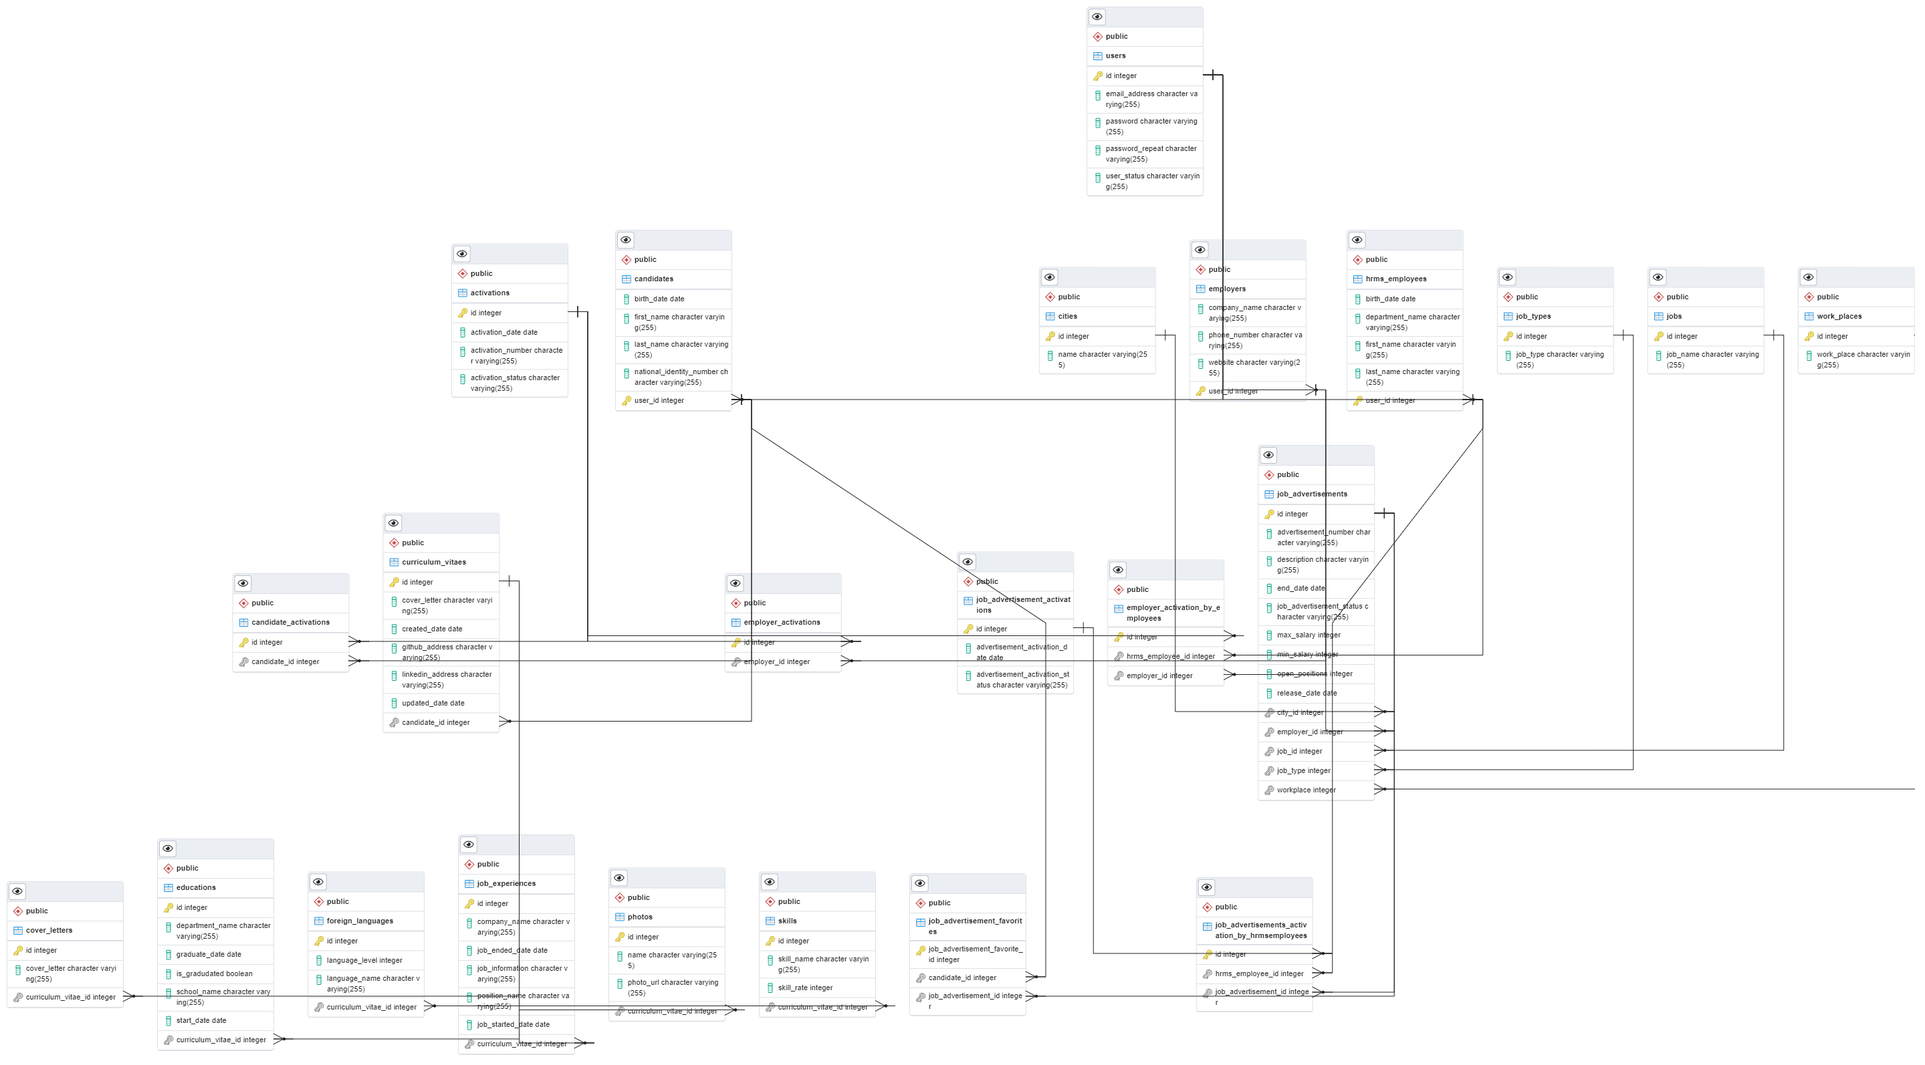
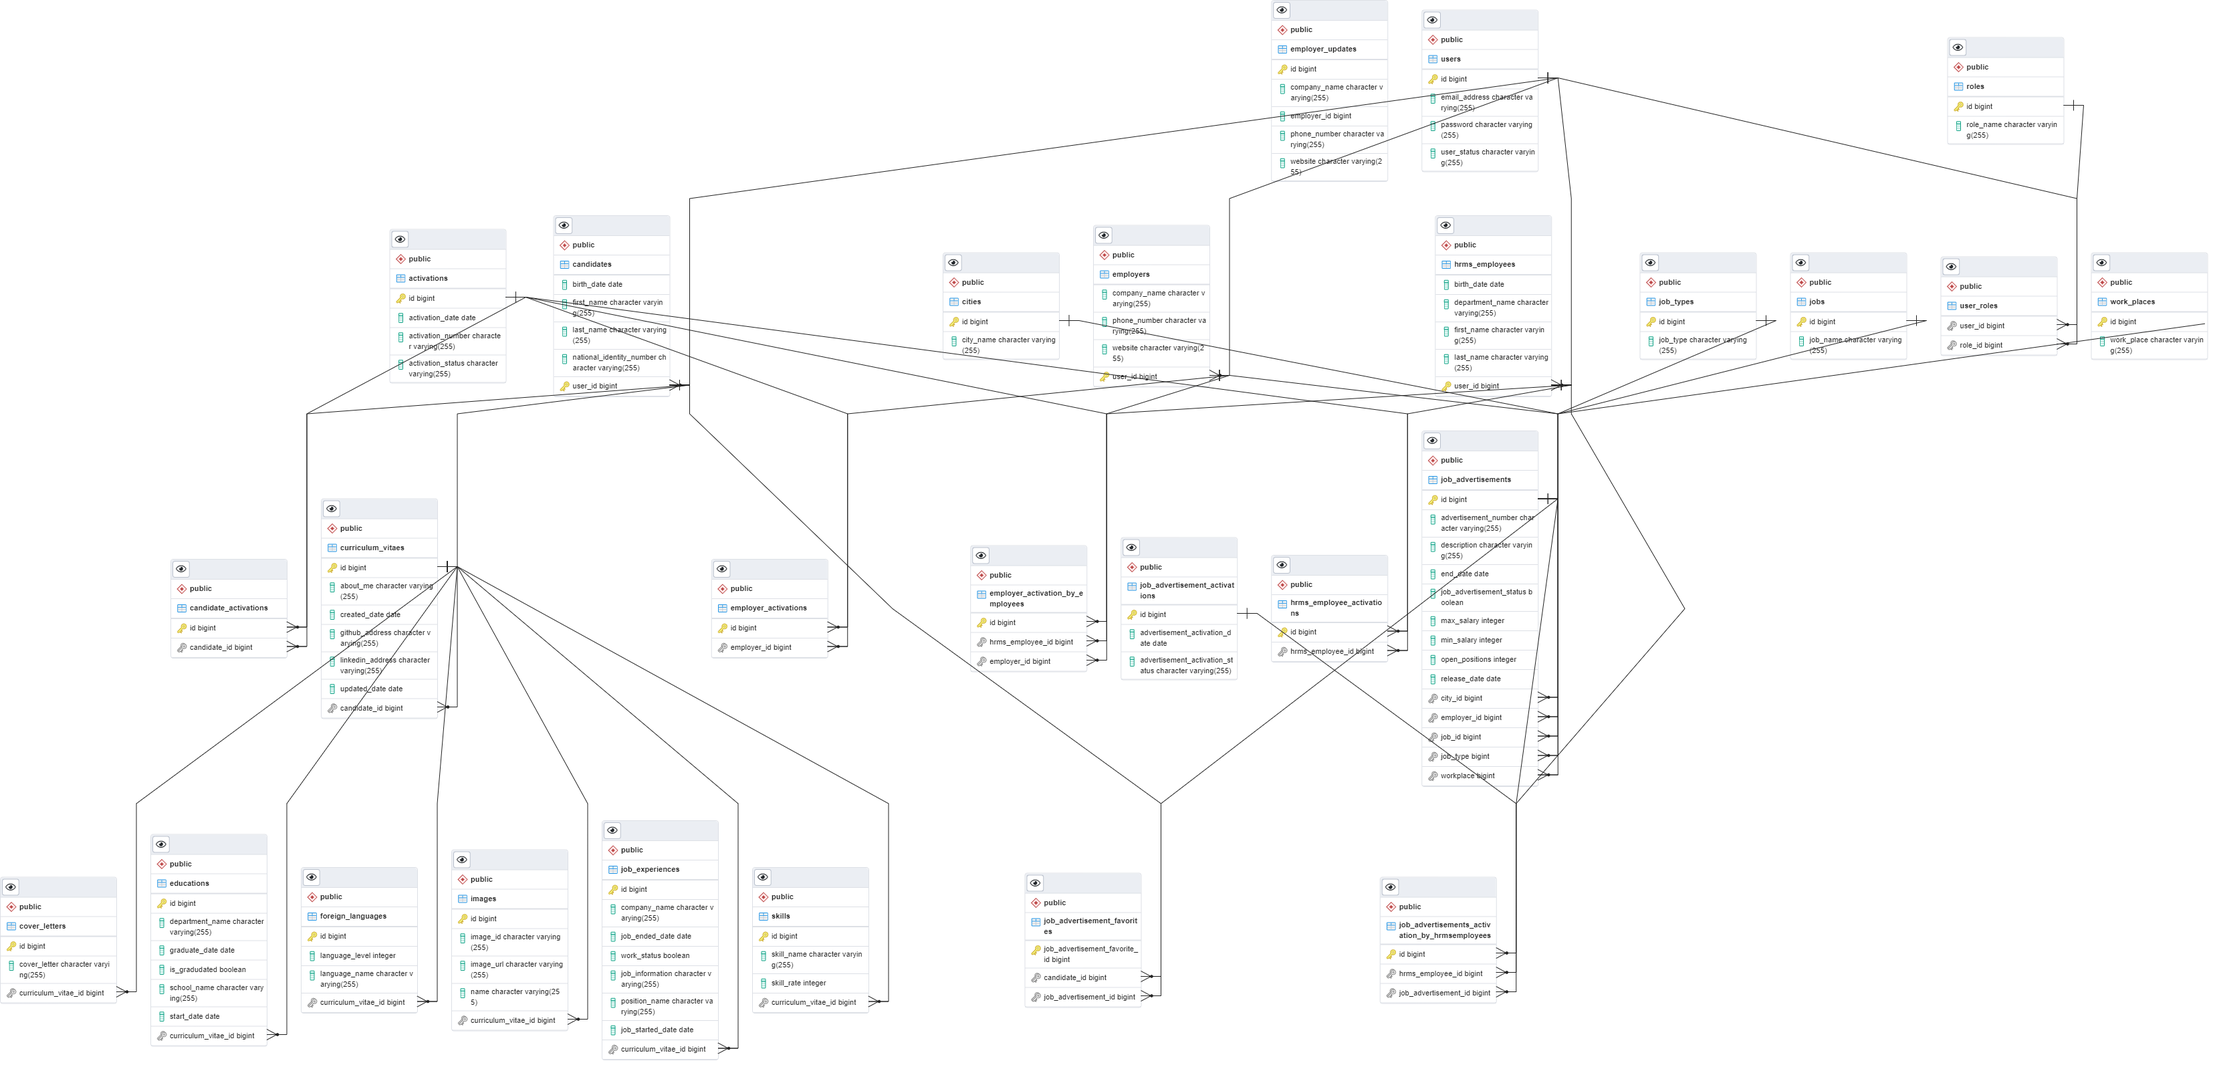
22.10.2021
-HrmsEmployee için aktivasyon tablosu eklendi.
-Bcrypt uyuşmazlık problemi giderildi.
-Veri tabanı ilişikileri güncellendi.
-Login yapıldığında verilen token test edildi.
-Rol bazlı authentication sistemi hazırlandı ancak aktive edilmedi.

diff --git a/HumanResourceManagementSystem/src/main/java/kodlamaio/HumanResourceManagementSystem/business/concretes/HrmsEmployeeManager.java b/HumanResourceManagementSystem/src/main/java/kodlamaio/HumanResourceManagementSystem/business/concretes/HrmsEmployeeManager.java
@@ -3,17 +3,22 @@ package kodlamaio.HumanResourceManagementSystem.business.concretes;
 import kodlamaio.HumanResourceManagementSystem.business.abstracts.HrmsEmployeeService;
 import kodlamaio.HumanResourceManagementSystem.business.abstracts.RoleService;
 import kodlamaio.HumanResourceManagementSystem.business.abstracts.UserService;
+import kodlamaio.HumanResourceManagementSystem.core.enums.activationEnums.UserActivationStatus;
 import kodlamaio.HumanResourceManagementSystem.core.enums.userEnums.UserStatus;
 import kodlamaio.HumanResourceManagementSystem.core.utils.TextEditOperation;
+import kodlamaio.HumanResourceManagementSystem.core.utils.activationUtils.ActivationNumberGenerator;
 import kodlamaio.HumanResourceManagementSystem.core.utils.results.*;
 import kodlamaio.HumanResourceManagementSystem.core.utils.validations.abstracts.RuleValidationService;
 import kodlamaio.HumanResourceManagementSystem.core.utils.validations.abstracts.UserValidationService;
 import kodlamaio.HumanResourceManagementSystem.dataAccess.abstracts.HrmsEmployeeDao;
 import kodlamaio.HumanResourceManagementSystem.entities.concretes.HrmsEmployee;
+import kodlamaio.HumanResourceManagementSystem.entities.concretes.HrmsEmployeeActivation;
 import kodlamaio.HumanResourceManagementSystem.entities.dtos.HrmsEmployeeDto;
 import org.springframework.beans.factory.annotation.Autowired;
+import org.springframework.security.crypto.password.PasswordEncoder;
 import org.springframework.stereotype.Service;
 
+import java.time.LocalDate;
 import java.util.List;
 
 @Service
@@ -23,22 +28,24 @@ public class HrmsEmployeeManager implements HrmsEmployeeService {
     private UserValidationService _userValidationService;
     private RuleValidationService _ruleValidationService;
     private RoleService _roleService;
+    private PasswordEncoder _passwordEncoder;
 
-    @Autowired
-    public HrmsEmployeeManager(HrmsEmployeeDao _hrmsEmployeeDao, UserValidationService _userValidationService, RuleValidationService _ruleValidationService, RoleService _roleService) {
+     @Autowired
+    public HrmsEmployeeManager(HrmsEmployeeDao _hrmsEmployeeDao, UserValidationService _userValidationService, RuleValidationService _ruleValidationService, RoleService _roleService, PasswordEncoder _passwordEncoder) {
         this._hrmsEmployeeDao = _hrmsEmployeeDao;
         this._userValidationService = _userValidationService;
         this._ruleValidationService = _ruleValidationService;
         this._roleService = _roleService;
+        this._passwordEncoder = _passwordEncoder;
     }
 
     @Override
     public Result add(HrmsEmployeeDto employeeDto) {
         try{
-            if(employeeDto.getFirstName().length()<2||employeeDto.getLastName().length()<2){
+            if(employeeDto.getFirstName().length()<2 && employeeDto.getLastName().length()<2){
                 return new ErrorResult("Adınız ve soyadınız 2 karakterden fazla olmalıdır.");
             }
-           else if (_userValidationService.isMailAddressExists(employeeDto.getEmail())){
+           else if (_hrmsEmployeeDao.existsByEmail(employeeDto.getEmail())){
                 return new ErrorResult("Kullanıcı sistemde mevcut");
             }
             else if(!_ruleValidationService.isMailRuleOk(employeeDto.getEmail())&&!_ruleValidationService.isPasswordRuleOk(employeeDto.getPassword())){
@@ -53,17 +60,24 @@ public class HrmsEmployeeManager implements HrmsEmployeeService {
                 employee.setLastName(TextEditOperation.makeAllWordsCapitalLetter(employeeDto.getLastName()));
                 employee.setBirthDate(employeeDto.getBirthDate());
                 employee.setEmail(employeeDto.getEmail());
-                employee.setPassword(employeeDto.getPassword());
+                employee.setPassword(_passwordEncoder.encode(employeeDto.getPassword()));
                 employee.setDepartment(TextEditOperation.makeAllWordsCapitalLetter(employeeDto.getDepartment()));
-                employee.setPasswordRepeat(employeeDto.getPasswordConfirm());
+                employee.setPasswordRepeat(_passwordEncoder.encode(employeeDto.getPasswordConfirm()));
                 employee.setUserStatus(UserStatus.Active);
+                HrmsEmployeeActivation hrmsEmployeeActivation = new HrmsEmployeeActivation();
+                hrmsEmployeeActivation.setEmployee(employee);
+                hrmsEmployeeActivation.setActivationDate(LocalDate.now());
+                hrmsEmployeeActivation.setActivationNumber(ActivationNumberGenerator.generateActivationNumber());
+                hrmsEmployeeActivation.setUserActivationStatus(UserActivationStatus.ManualActivation);
+
+
                 _hrmsEmployeeDao.save(employee);
                 _roleService.addRoleToUser(employeeDto.getEmail(), "ROLE_ADMIN");
                 return new SuccessResult("Personel sisteme eklendi ve aktif hale getirildi.");
             }
 
         }catch (Exception ex){
-            return new ErrorResult("Ekleme işlemi hatalı");
+            return new ErrorResult("Ekleme işlemi hatalı" +ex);
         }
     }
 

diff --git a/HumanResourceManagementSystem/src/main/java/kodlamaio/HumanResourceManagementSystem/core/securities/config/SecurityConfig.java b/HumanResourceManagementSystem/src/main/java/kodlamaio/HumanResourceManagementSystem/core/securities/config/SecurityConfig.java
@@ -33,7 +33,7 @@ public class SecurityConfig extends WebSecurityConfigurerAdapter {
 
     @Override
     protected void configure(AuthenticationManagerBuilder auth) throws Exception {
-        auth.userDetailsService(userDetailsService);
+        auth.userDetailsService(userDetailsService).passwordEncoder(new BCryptPasswordEncoder());
     }
 
     @Bean(name = BeanIds.AUTHENTICATION_MANAGER)
@@ -45,9 +45,12 @@ public class SecurityConfig extends WebSecurityConfigurerAdapter {
 
 
     @Bean(name = "passwordEncoderBean")
+    @Deprecated()
     public PasswordEncoder passwordEncoder()
     {
-        return new BCryptPasswordEncoder();
+      return new BCryptPasswordEncoder();
+
+       // return NoOpPasswordEncoder.getInstance();
     }
 
     @Override
@@ -56,8 +59,42 @@ public class SecurityConfig extends WebSecurityConfigurerAdapter {
         http.cors().and().csrf().disable().authorizeRequests()
                 //http.csrf().disable().authorizeRequests()
                 .antMatchers("/api/auths/login/**").permitAll()
-                .antMatchers("/api/candidates/add").permitAll()
-                .antMatchers("/api/employers/add").hasAnyAuthority("ROLE_CANDIDATE")
+                .antMatchers("/api/candidates/add").permitAll() //Register Sayfası
+                .antMatchers("/api/employers/add").permitAll() //Register Sayfası
+                .antMatchers("/api/curriculumVitaes/**").permitAll()
+                .antMatchers("/api/employers/**").permitAll()
+                .antMatchers("/api/hrmsEmployees/**").permitAll()
+                .antMatchers("/api/foreignLanguages/**").permitAll()
+                .antMatchers("/api/jobExperiences/**").permitAll()
+                .antMatchers("/api/educations/**").permitAll()
+                .antMatchers("/api/skills/**").permitAll()
+                .antMatchers("/api/coverLetters/**").permitAll()
+                .antMatchers("/api/jobAdvertisements/**").permitAll()
+                .antMatchers("/api/jobs/**").permitAll()
+                .antMatchers("/api/cities/**").permitAll()
+                .antMatchers("/api/jobTypes/**").permitAll()
+                .antMatchers("/api/workPlaces/**").permitAll()
+                .antMatchers("/api/favoriteJobAdvertisement/**").permitAll()
+
+
+
+
+                /*
+                .antMatchers("/api/curriculumVitaes/**").hasAnyAuthority("ROLE_CANDIDATE")
+                .antMatchers("/api/foreignLanguages/**").hasAnyAuthority("ROLE_CANDIDATE","ROLE_EMPLOYEE")
+                .antMatchers("/api/jobExperiences/**").hasAnyAuthority("ROLE_CANDIDATE","ROLE_EMPLOYEE")
+                .antMatchers("/api/educations/**").hasAnyAuthority("ROLE_CANDIDATE","ROLE_EMPLOYEE")
+                .antMatchers("/api/skills/**").hasAnyAuthority("ROLE_CANDIDATE","ROLE_EMPLOYEE")
+                .antMatchers("/api/coverLetters/**").hasAnyAuthority("ROLE_CANDIDATE","ROLE_EMPLOYEE")
+
+
+                .antMatchers("/api/jobAdvertisements/**").hasAnyAuthority("ROLE_EMPLOYER","ROLE_EMPLOYEE")
+
+                .antMatchers("/api/jobs/**").hasAnyAuthority("ROLE_EMPLOYER","ROLE_EMPLOYEE")
+                .antMatchers("/api/cities/**").hasAnyAuthority("ROLE_EMPLOYER","ROLE_EMPLOYEE")
+                .antMatchers("/api/jobTypes/**").hasAnyAuthority("ROLE_EMPLOYER","ROLE_EMPLOYEE")
+                .antMatchers("/api/workPlaces/**").hasAnyAuthority("ROLE_EMPLOYER","ROLE_EMPLOYEE")
+
                 .antMatchers("/api").permitAll()
                 .antMatchers("/api/activations/**").permitAll()
                 //.hasAnyAuthority("ROLE_CANDIDATE")

diff --git a/HumanResourceManagementSystem/src/main/java/kodlamaio/HumanResourceManagementSystem/business/concretes/EmployerManager.java b/HumanResourceManagementSystem/src/main/java/kodlamaio/HumanResourceManagementSystem/business/concretes/EmployerManager.java
@@ -20,6 +20,7 @@ import kodlamaio.HumanResourceManagementSystem.entities.concretes.EmployerActiva
 import kodlamaio.HumanResourceManagementSystem.entities.concretes.EmployerUpdate;
 import kodlamaio.HumanResourceManagementSystem.entities.dtos.EmployerAddDto;
 import org.springframework.beans.factory.annotation.Autowired;
+import org.springframework.security.crypto.password.PasswordEncoder;
 import org.springframework.stereotype.Service;
 
 import java.time.LocalDate;
@@ -35,9 +36,10 @@ public class EmployerManager implements EmployerService {
     private final EmailSenderService _emailSenderService;
     private final RoleService _roleService;
     private final RuleValidationService _ruleValidationService;
+    private PasswordEncoder _passwordEncoder;
 
     @Autowired
-    public EmployerManager(EmployerDao _employerDao, EmployerActivationDao _employerActivationDao, UserValidationService _userValidationService, EmployerUpdateDao _employerUpdateDao, EmailSenderService _emailSenderService, RoleService _roleService, RuleValidationService _ruleValidationService) {
+    public EmployerManager(EmployerDao _employerDao, EmployerActivationDao _employerActivationDao, UserValidationService _userValidationService, EmployerUpdateDao _employerUpdateDao, EmailSenderService _emailSenderService, RoleService _roleService, RuleValidationService _ruleValidationService, PasswordEncoder _passwordEncoder) {
         this._employerDao = _employerDao;
         this._employerActivationDao = _employerActivationDao;
         this._userValidationService = _userValidationService;
@@ -45,6 +47,7 @@ public class EmployerManager implements EmployerService {
         this._emailSenderService = _emailSenderService;
         this._roleService = _roleService;
         this._ruleValidationService = _ruleValidationService;
+        this._passwordEncoder = _passwordEncoder;
     }
 
     @Override
@@ -66,8 +69,8 @@ public class EmployerManager implements EmployerService {
                 employer.setWebsite(employerAddDto.getWebsite());
                 employer.setPhoneNumber(employerAddDto.getPhoneNumber());
                 employer.setEmail(employerAddDto.getEmail());
-                employer.setPassword(employerAddDto.getPassword());
-                employer.setPasswordRepeat(employerAddDto.getConfirmPassword());
+                employer.setPassword(_passwordEncoder.encode(employerAddDto.getPassword()));
+                employer.setPasswordRepeat(_passwordEncoder.encode(employerAddDto.getConfirmPassword()));
                 employer.setUserStatus(UserStatus.Passive);
                 EmployerActivation employerActivation = new EmployerActivation();
                 employerActivation.setEmployer(employer);

diff --git a/HumanResourceManagementSystem/src/main/java/kodlamaio/HumanResourceManagementSystem/api/controllers/HrmsEmployeesController.java b/HumanResourceManagementSystem/src/main/java/kodlamaio/HumanResourceManagementSystem/api/controllers/HrmsEmployeesController.java
@@ -21,6 +21,7 @@ import java.util.List;
 @RequestMapping("/api/hrmsEmployees")
 @CrossOrigin
 public class HrmsEmployeesController {
+
     private HrmsEmployeeService _employeeService;
 
     @Autowired
@@ -28,16 +29,17 @@ public class HrmsEmployeesController {
         this._employeeService = _employeeService;
     }
 
-    @PostMapping(value = "/add")
-    public ResponseEntity<?> add(@Valid @RequestBody HrmsEmployeeDto hrmsEmployee) {
-        Result result = this._employeeService.add(hrmsEmployee);
-        if (result.isSuccess()){
-            return ResponseEntity.ok(result);
-        }
-        return ResponseEntity.badRequest().body(hrmsEmployee);
-
+    @CrossOrigin
+    @PostMapping(value = "/add",headers = {"content-type=application/json"})
+    public ResponseEntity<?> add(@RequestBody HrmsEmployeeDto hrmsEmployee) {
+            Result result = this._employeeService.add(hrmsEmployee);
+            if (result.isSuccess()){
+                return ResponseEntity.ok(result);
+            }
+            return ResponseEntity.badRequest().body(result.getMessage());
     }
 
+    @CrossOrigin
     @PutMapping(value = "/update/{id}",headers = {"content-type=application/json"})
     public ResponseEntity<?> update(@PathVariable("id") Long id,@RequestBody HrmsEmployeeDto hrmsEmployeeDto){
         Result result = _employeeService.update(id,hrmsEmployeeDto);
@@ -72,6 +74,7 @@ public class HrmsEmployeesController {
         return _employeeService.getAll();
     }
 
+    @CrossOrigin
     @DeleteMapping("/delete")
     public ResponseEntity<?> delete(Long id) {
         Result result = _employeeService.delete(id);

diff --git a/HumanResourceManagementSystem/src/main/java/kodlamaio/HumanResourceManagementSystem/api/controllers/EmployersController.java b/HumanResourceManagementSystem/src/main/java/kodlamaio/HumanResourceManagementSystem/api/controllers/EmployersController.java
@@ -25,6 +25,7 @@ public class EmployersController {
         this._employerService = _employerService;
     }
 
+    @CrossOrigin
     @PostMapping("/add")
     public ResponseEntity<?> add(@RequestBody EmployerAddDto employerAddDto){
         Result result=_employerService.add(employerAddDto);
@@ -58,6 +59,7 @@ public class EmployersController {
         return _employerService.getAll();
     }
 
+    @CrossOrigin
     @DeleteMapping("/delete/{employerId}")
     public ResponseEntity<?> delete(@PathVariable("employerId") Long employerId){
         Result result=_employerService.delete(employerId);
@@ -67,6 +69,7 @@ public class EmployersController {
         return ResponseEntity.badRequest().body(result);
     }
 
+    @CrossOrigin
     @PutMapping(value = "/update/{employerId}",headers = {"content-type=application/json"})
     public ResponseEntity<?> update( @RequestBody EmployerAddDto employerAddDto,@PathVariable("employerId") Long employerId){
         Result result=_employerService.update(employerId,employerAddDto);

diff --git a/HumanResourceManagementSystem/src/main/java/kodlamaio/HumanResourceManagementSystem/entities/concretes/HrmsEmployeeActivation.java b/HumanResourceManagementSystem/src/main/java/kodlamaio/HumanResourceManagementSystem/entities/concretes/HrmsEmployeeActivation.java
@@ -1,0 +1,25 @@
+package kodlamaio.HumanResourceManagementSystem.entities.concretes;
+
+import com.fasterxml.jackson.annotation.JsonIgnoreProperties;
+import kodlamaio.HumanResourceManagementSystem.entities.abstracts.Activation;
+import lombok.AllArgsConstructor;
+import lombok.Data;
+import lombok.EqualsAndHashCode;
+import lombok.NoArgsConstructor;
+
+import javax.persistence.*;
+
+@Data
+@Entity
+@NoArgsConstructor
+@AllArgsConstructor
+@EqualsAndHashCode(callSuper = false)
+@Table(name = "hrms_employee_activations")
+@JsonIgnoreProperties({"hibernateLazyInitializer","handler","hrmsemployee"})
+public class HrmsEmployeeActivation extends Activation {
+
+    @OneToOne(cascade = CascadeType.ALL)
+    @JoinColumn(name = "hrms_employee_id")
+    private HrmsEmployee employee;
+
+}

diff --git a/HumanResourceManagementSystem/src/main/java/kodlamaio/HumanResourceManagementSystem/dataAccess/abstracts/HrmsEmployeeDao.java b/HumanResourceManagementSystem/src/main/java/kodlamaio/HumanResourceManagementSystem/dataAccess/abstracts/HrmsEmployeeDao.java
@@ -1,10 +1,13 @@
 package kodlamaio.HumanResourceManagementSystem.dataAccess.abstracts;
 
 import kodlamaio.HumanResourceManagementSystem.entities.concretes.HrmsEmployee;
+import kodlamaio.HumanResourceManagementSystem.entities.concretes.HrmsEmployeeActivation;
 import org.springframework.data.jpa.repository.JpaRepository;
 import org.springframework.data.jpa.repository.Query;
 
 import java.util.List;
 
-public interface HrmsEmployeeDao extends JpaRepository<HrmsEmployee, Long> {
+public interface HrmsEmployeeDao extends JpaRepository<HrmsEmployee,Long> {
+    boolean existsByEmail(String email);
+
 }

diff --git a/HumanResourceManagementSystem/src/main/java/kodlamaio/HumanResourceManagementSystem/api/controllers/AuthsController.java b/HumanResourceManagementSystem/src/main/java/kodlamaio/HumanResourceManagementSystem/api/controllers/AuthsController.java
@@ -2,6 +2,7 @@ package kodlamaio.HumanResourceManagementSystem.api.controllers;
 
 import kodlamaio.HumanResourceManagementSystem.business.abstracts.AuthService;
 import kodlamaio.HumanResourceManagementSystem.business.abstracts.UserService;
+import kodlamaio.HumanResourceManagementSystem.core.utils.results.DataResult;
 import kodlamaio.HumanResourceManagementSystem.core.utils.results.ErrorResult;
 import kodlamaio.HumanResourceManagementSystem.core.utils.results.Result;
 import kodlamaio.HumanResourceManagementSystem.entities.dtos.LoginDto;

diff --git a/HumanResourceManagementSystem/src/main/java/kodlamaio/HumanResourceManagementSystem/entities/dtos/HrmsEmployeeDto.java b/HumanResourceManagementSystem/src/main/java/kodlamaio/HumanResourceManagementSystem/entities/dtos/HrmsEmployeeDto.java
@@ -1,11 +1,15 @@
 package kodlamaio.HumanResourceManagementSystem.entities.dtos;
 
 import com.fasterxml.jackson.annotation.JsonFormat;
+import lombok.AllArgsConstructor;
 import lombok.Data;
+import lombok.NoArgsConstructor;
 
 import java.time.LocalDate;
 
 @Data
+@AllArgsConstructor
+@NoArgsConstructor
 public class HrmsEmployeeDto {
     private String firstName;
     private String lastName;

diff --git a/HumanResourceManagementSystem/src/main/java/kodlamaio/HumanResourceManagementSystem/core/utils/validations/concretes/UserValidation.java b/HumanResourceManagementSystem/src/main/java/kodlamaio/HumanResourceManagementSystem/core/utils/validations/concretes/UserValidation.java
@@ -34,7 +34,7 @@ public class UserValidation implements UserValidationService {
     @Override
     public boolean isMailAddressExists(String emailAddress){
 
-            if (_userDao.findUserByEmailEquals(emailAddress) != null){
+            if (_userDao.existsByEmail(emailAddress)){
                 return true;
             }
             else{

diff --git a/HumanResourceManagementSystem/src/main/java/kodlamaio/HumanResourceManagementSystem/dataAccess/abstracts/HrmsEmployeeActivationDao.java b/HumanResourceManagementSystem/src/main/java/kodlamaio/HumanResourceManagementSystem/dataAccess/abstracts/HrmsEmployeeActivationDao.java
@@ -1,0 +1,8 @@
+package kodlamaio.HumanResourceManagementSystem.dataAccess.abstracts;
+
+import kodlamaio.HumanResourceManagementSystem.entities.concretes.HrmsEmployeeActivation;
+import org.springframework.data.jpa.repository.JpaRepository;
+
+public interface HrmsEmployeeActivationDao extends JpaRepository<HrmsEmployeeActivation,Long> {
+
+}

diff --git a/HumanResourceManagementSystem/src/main/java/kodlamaio/HumanResourceManagementSystem/entities/dtos/JobAdvertisementFavoriteDto.java b/HumanResourceManagementSystem/src/main/java/kodlamaio/HumanResourceManagementSystem/entities/dtos/JobAdvertisementFavoriteDto.java
@@ -1,0 +1,13 @@
+package kodlamaio.HumanResourceManagementSystem.entities.dtos;
+
+import lombok.AllArgsConstructor;
+import lombok.Data;
+import lombok.NoArgsConstructor;
+
+@Data
+@AllArgsConstructor
+@NoArgsConstructor
+public class JobAdvertisementFavoriteDto {
+    private Long candidateId;
+    private Long jobAdvertisementId;
+}
